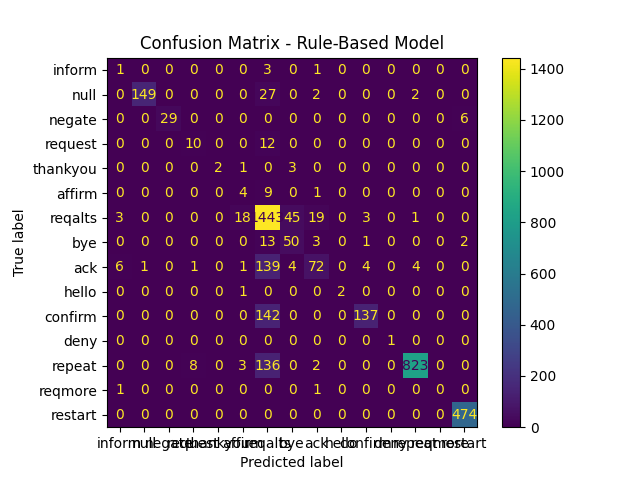
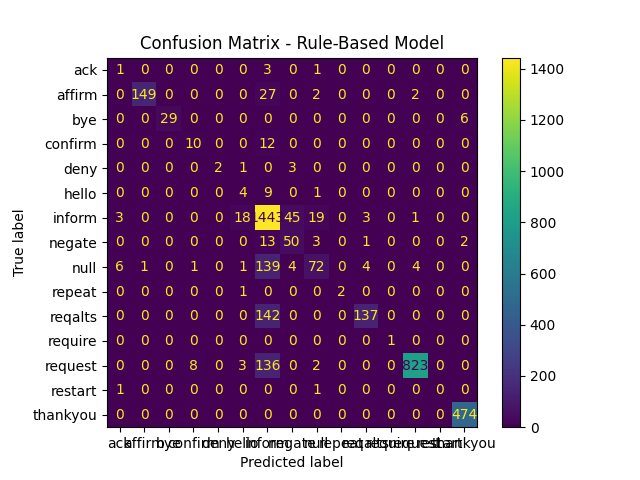
fixed labels in confusion matrix

diff --git a/main.py b/main.py
@@ -133,10 +133,10 @@ def save_confusion_matrix(y_test, y_pred, model_name):
         y_pred: A list of the predicted labels for the test set.
         model_name: A string with the name of the model for evaluation.
     """
-    classes = y_test.unique()
+    labels = ["ack", "affirm", "bye", "confirm", "deny", "hello", "inform", "negate", "null", "repeat", "reqalts", "require", "request", "restart", "thankyou"]
 
     cm = confusion_matrix(y_test, y_pred)
-    disp = ConfusionMatrixDisplay(confusion_matrix=cm, display_labels=classes)
+    disp = ConfusionMatrixDisplay(confusion_matrix=cm, display_labels=labels)
     disp.plot()
 
     # Add title with the model name
@@ -179,7 +179,8 @@ def print_metrics(y_test, y_pred, model_name):
     print("F1-score:", f1)
 
 def print_metrics_for_each_model(df, X_test, y_test):
-    """Prints evaluation metrics for both the majority-label model and the rule-based model.
+    """
+    Prints evaluation metrics for both the majority-label model and the rule-based model.
 
     Args:
         df: The DataFrame containing the training data.
